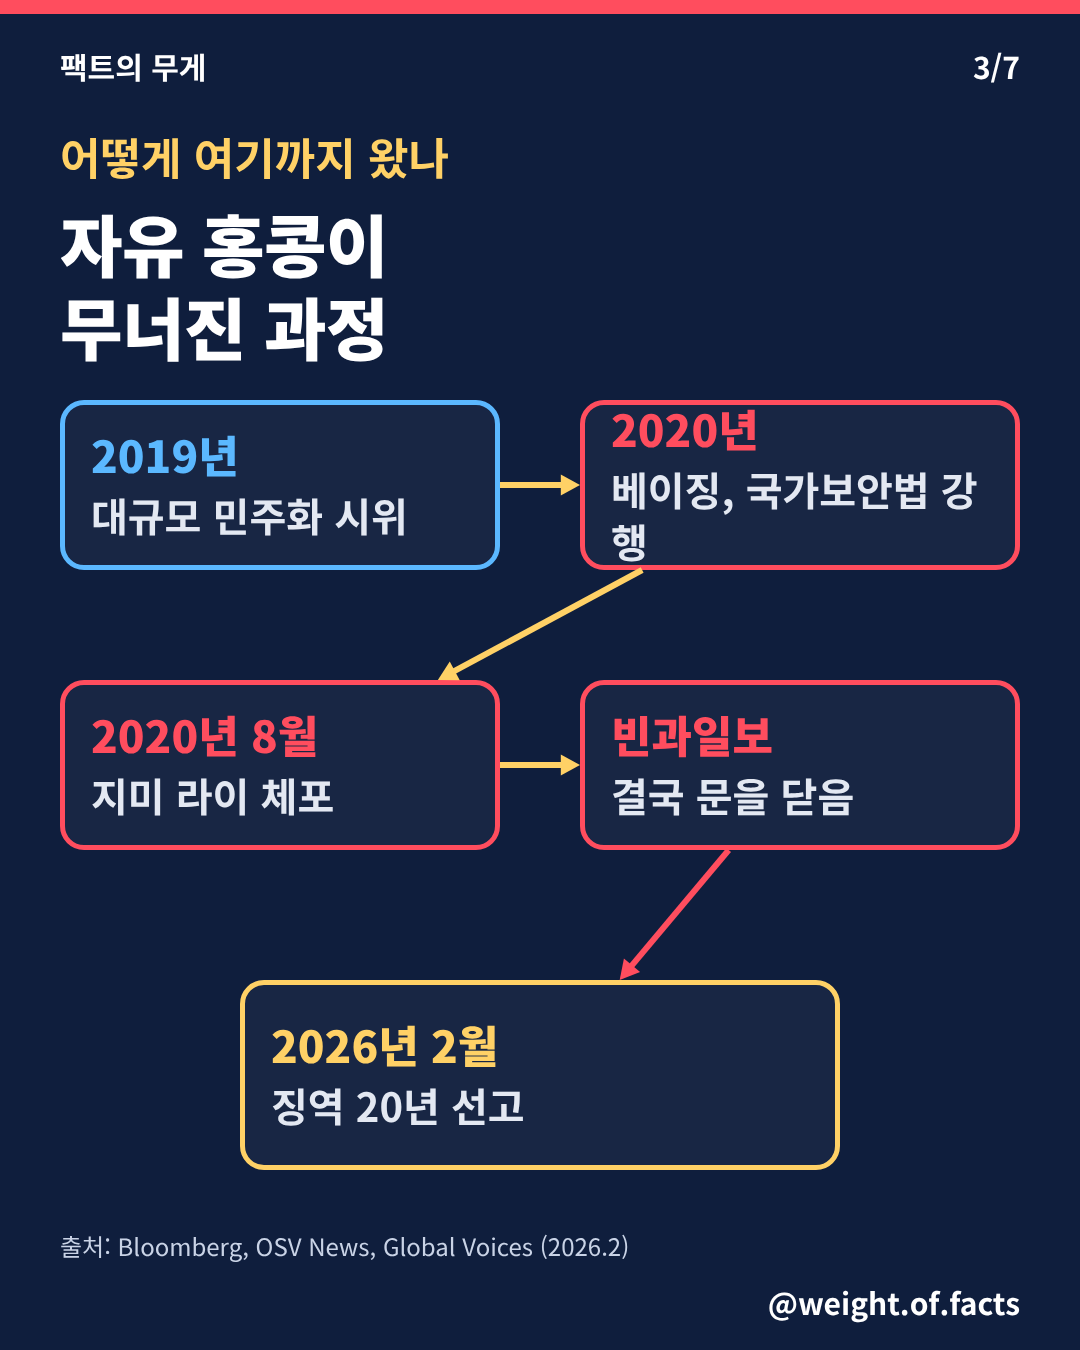
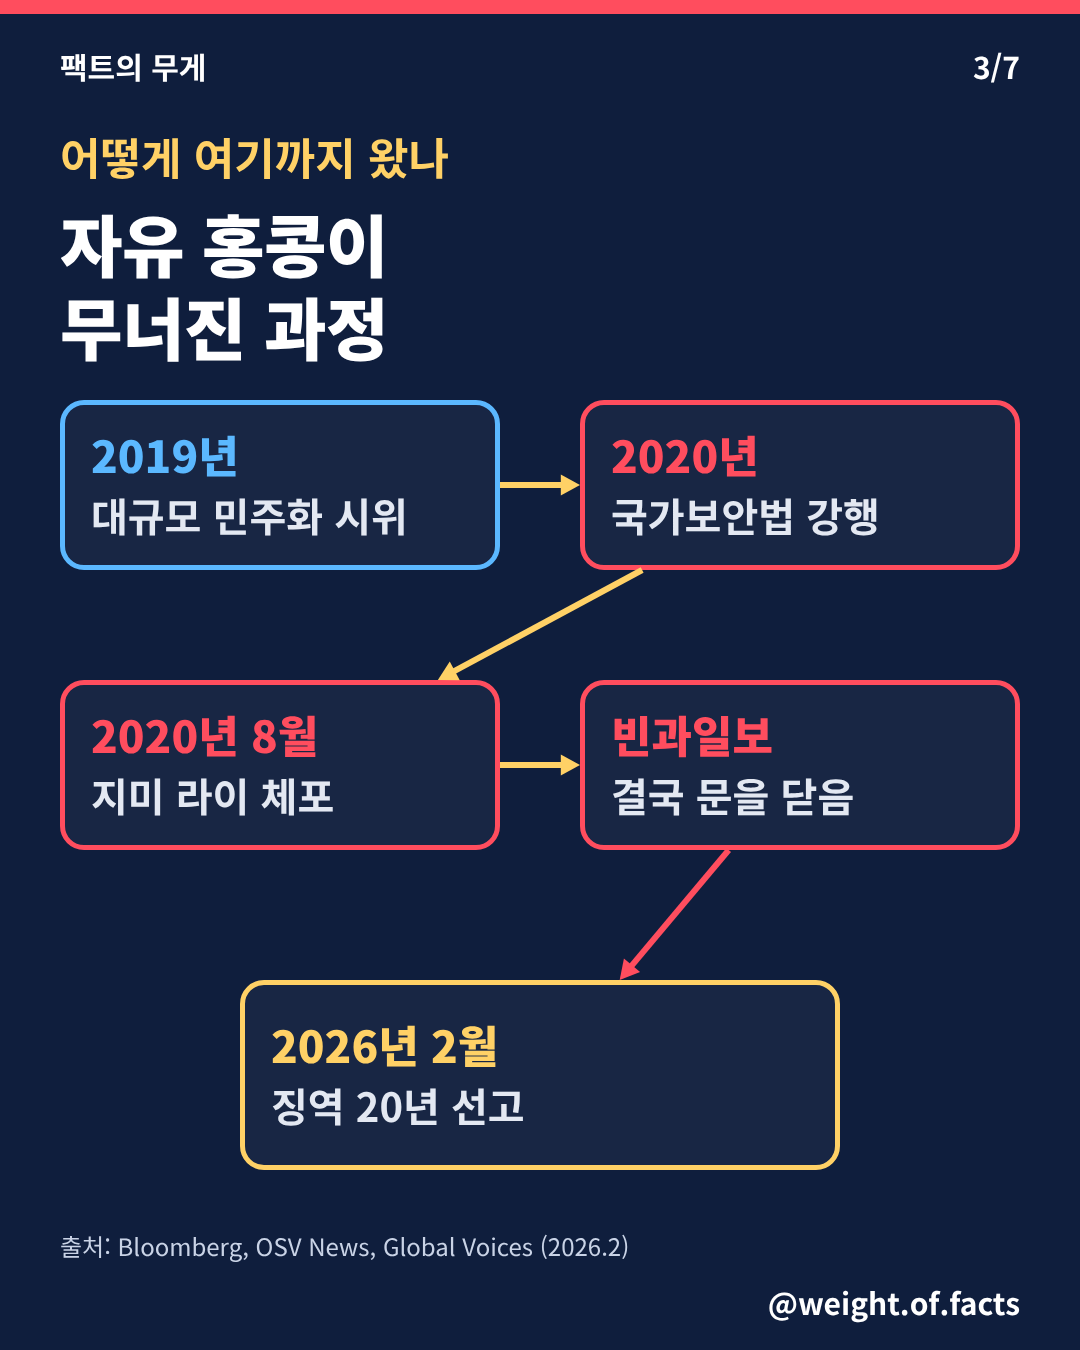
12편 흐름도 글자 넘침 수정
Claude-Session: https://claude.ai/code/session_01SAkGGqEMXxCyEiJA26VZCo

Changed region(s): [[0.55, 0.28, 0.9167, 0.4356]]

diff --git a/scripts/render_diagram.py b/scripts/render_diagram.py
@@ -31,7 +31,7 @@ body{font-family:var(--font);color:#fff;-webkit-font-smoothing:antialiased}
 .box{width:100%;height:100%;border-radius:24px;border:5px solid var(--c);background:rgba(255,255,255,.04);
   display:flex;flex-direction:column;justify-content:center;padding:18px 26px}
 .box .bt{font-size:44px;font-weight:900;color:var(--c);line-height:1.18}
-.box .bs{font-size:40px;font-weight:600;color:var(--sub);line-height:1.3;margin-top:8px}
+.box .bs{font-size:40px;word-break:keep-all;font-weight:600;color:var(--sub);line-height:1.3;margin-top:8px}
 .fig-elabel{font-size:28px!important;font-weight:800!important;padding:4px 16px!important;
   background:var(--navy)!important;color:var(--gold)!important;border:2px solid var(--gold)!important;border-radius:22px!important}
 .fig-pill,.fig-dock,.fig-menu{display:none!important}
